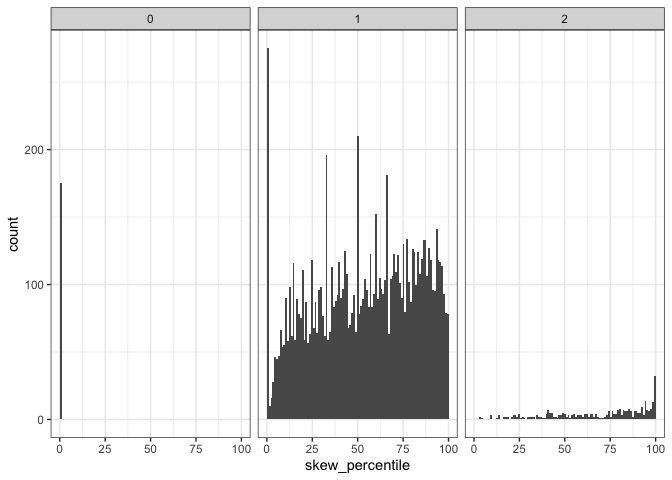
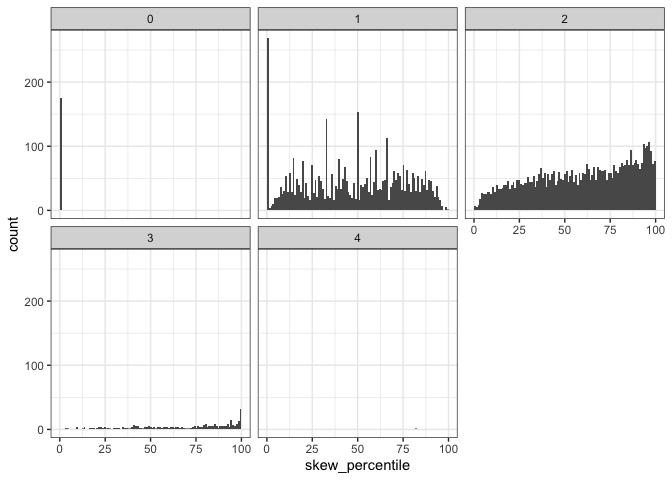
grr

diff --git a/analysis/reports/rov.md b/analysis/reports/rov.md
@@ -53,6 +53,6 @@ Overall:
 
 Binned:
 
-![](rov_files/figure-markdown_github/binned%20percentiles-1.png)
+![](rov_files/figure-markdown_github/binned%20percentiles-1.png)![](rov_files/figure-markdown_github/binned%20percentiles-2.png)
 
 OK, these visualiations are pretty hard with this dataset (not very many small communities). Try after adding FIA?
